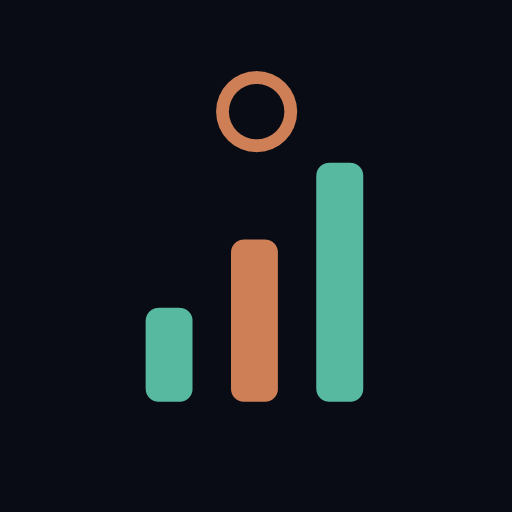
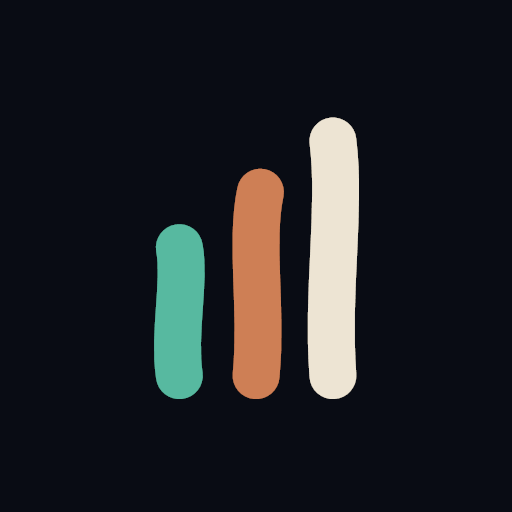
Nuevo icono: trazos a mano
Las barras rectas de grafica se cambian por tres trazos de pincel
(menta, naranja y crema) para que el icono se sienta menos robotico.
Las rutas de los iconos llevan ?v=2 para que los navegadores no sigan
mostrando el anterior guardado.

Changed region(s): [[0.4062, 0.125, 0.7188, 0.8125], [0.2812, 0.4375, 0.4062, 0.8125]]

diff --git a/index.html b/index.html
@@ -14,8 +14,8 @@
 <meta property="og:title" content="Pilares">
 <meta property="og:description" content="Ejercicio, estudio y finanzas en una sola aplicacion.">
 <meta property="og:type" content="website">
-<link rel="icon" href="icon.svg" type="image/svg+xml">
-<link rel="apple-touch-icon" href="icon-192.png">
+<link rel="icon" href="icon.svg?v=2" type="image/svg+xml">
+<link rel="apple-touch-icon" href="icon-192.png?v=2">
 <link rel="manifest" href="manifest.webmanifest">
 <link rel="preconnect" href="https://fonts.googleapis.com">
 <link rel="preconnect" href="https://fonts.gstatic.com" crossorigin>

diff --git a/sw.js b/sw.js
@@ -14,8 +14,8 @@ self.addEventListener('push', function (e) {
     // Todo push debe mostrarse (iOS retira el permiso si llegan push "mudos").
     self.registration.showNotification(d.titulo || 'Pilares', {
       body: d.cuerpo || '',
-      icon: 'icon-192.png',
-      badge: 'icon-192.png',
+      icon: 'icon-192.png?v=2',
+      badge: 'icon-192.png?v=2',
       tag: d.id || undefined,
       data: { url: d.url || './' },
     }),
